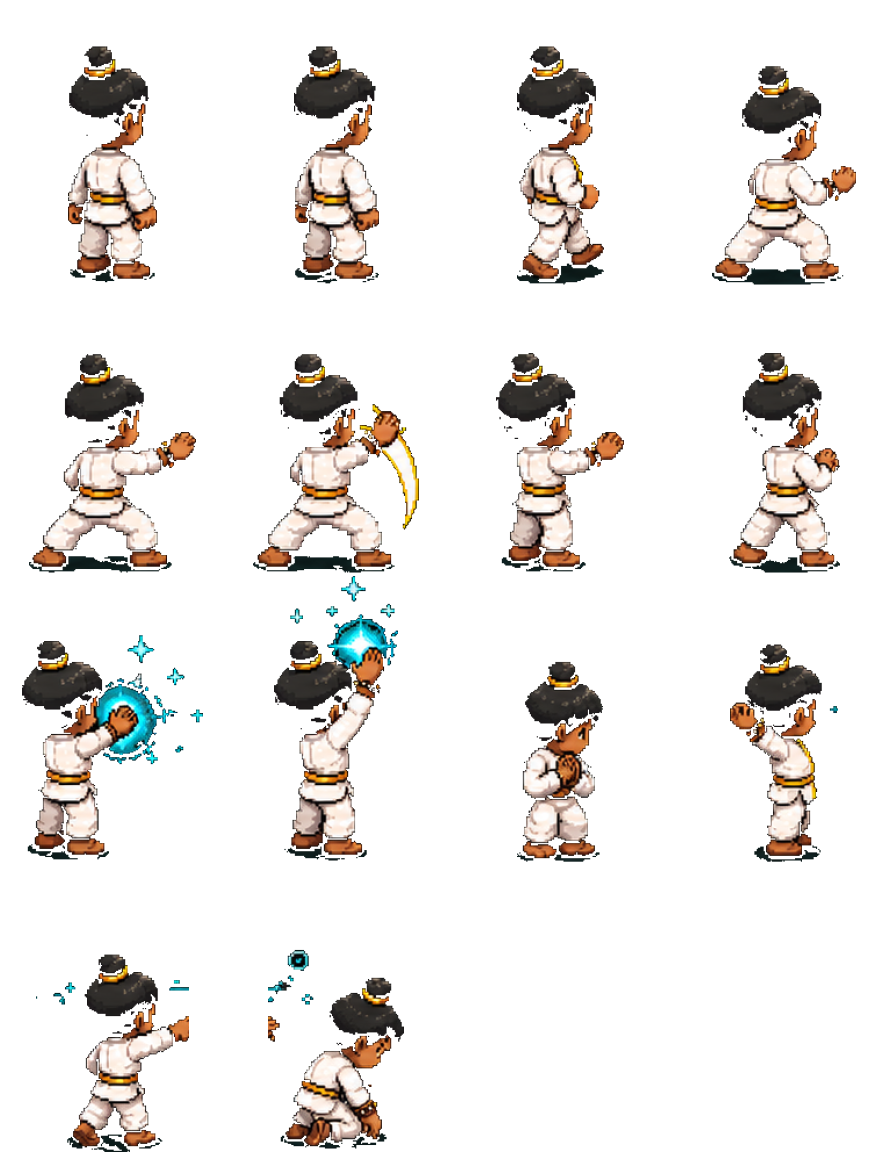
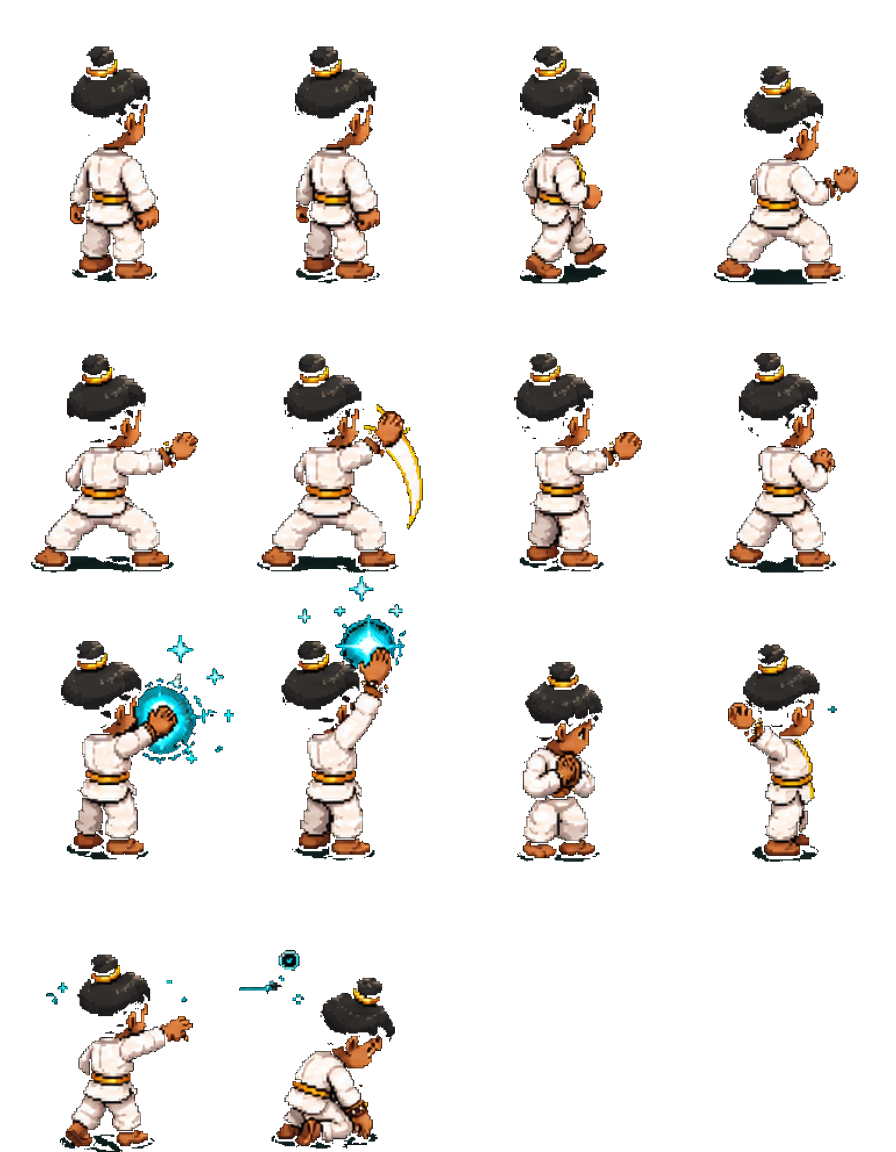
fix(resheet): assign floating FX to nearest figure by connected component
Combat FX (cast reticle, swing arc, sparkles) is drawn floating in the gap
between poses, so a vertical cut sliced through it and the halves landed in two
cells. Replace gap-cut+bbox with connected-component grouping: find each frame's
figure centre (tall-mass centroid), label every blob, and assign each blob WHOLE
to its nearest figure centre. Each cell renders from a mask of only its own
blobs (no neighbour bleed) and anchors on the figure centre so the character
stays put while FX extends to one side, clipped to the cell. Re-sheet all 5.

diff --git a/tools/resheet.ts b/tools/resheet.ts
@@ -191,9 +191,11 @@ function main(): void {
   const colTop = new Array<number>(src.w).fill(-1);
   const colBot = new Array<number>(src.w).fill(-1);
   const rowHas = new Array<number>(src.h).fill(0);
+  const mask = new Uint8Array(src.w * src.h); // 1 = content (reused for components)
   for (let y = 0; y < src.h; y++) {
     for (let x = 0; x < src.w; x++) {
       if (isContent(x, y)) {
+        mask[y * src.w + x] = 1;
         colHas[x]++; rowHas[y]++;
         if (colTop[x] < 0) colTop[x] = y;
         colBot[x] = y;
@@ -255,35 +257,67 @@ function main(): void {
     method = 'snap-to-gap';
   }
 
-  // per-frame horizontal content bbox + the global scale (one consistent size).
-  // A frame may catch a thin sliver of a neighbour when wide FX (a swung pan, a
-  // cast arc) crosses the cut. So within each band we build occupied runs,
-  // bridge a figure's own internal gaps (legs, arm→prop), then keep only the
-  // runs whose content is a real share of the dominant mass — dropping thin
-  // edge slivers that belong to the next figure.
-  const fx: Array<[number, number]> = [];
-  const bridge = Math.max(2, Math.round(pitch * 0.12)); // figure-internal gap tolerance
+  // --- group content into frames by connected component, not by hard cut ---
+  // FX (a cast reticle, swing arc, sparkles) is often drawn floating in the GAP
+  // between two poses, so a vertical cut slices straight through it and the
+  // halves land in two different cells. Instead: find each frame's figure centre
+  // (the tall-mass centroid in its band), label every connected blob, then assign
+  // each blob WHOLE to its nearest figure centre. A floating reticle goes
+  // entirely to one figure — never split — and each cell is later rendered from a
+  // mask of only its own blobs, so no neighbour can bleed in.
+  const figCenter: number[] = [];
   for (let i = 0; i < frames; i++) {
     const a = bounds[i];
     const b = bounds[i + 1] - 1;
-    const runs: Array<{ s: number; e: number; sum: number }> = [];
-    let s = -1;
-    for (let x = a; x <= b; x++) {
-      if (colHas[x] > 0) { if (s < 0) s = x; }
-      else if (s >= 0) { runs.push({ s, e: x - 1, sum: 0 }); s = -1; }
+    let sw = 0; let swx = 0;
+    for (let x = a; x <= b; x++) if (colOcc[x] > 0) { sw += colOcc[x]; swx += colOcc[x] * x; }
+    if (sw === 0) for (let x = a; x <= b; x++) if (colHas[x] > 0) { sw += colHas[x]; swx += colHas[x] * x; }
+    figCenter.push(sw > 0 ? swx / sw : (a + b) / 2);
+  }
+
+  // connected-component label (8-connectivity) over the content mask
+  const W = src.w;
+  const label = new Int32Array(W * src.h).fill(-1); // -1 unvisited, -2 empty, >=0 component id
+  const comp: Array<{ minX: number; maxX: number; area: number; sumX: number }> = [];
+  const stack: number[] = [];
+  for (let p0 = 0; p0 < mask.length; p0++) {
+    if (label[p0] !== -1) continue;
+    if (mask[p0] === 0) { label[p0] = -2; continue; }
+    const id = comp.length;
+    const c = { minX: p0 % W, maxX: p0 % W, area: 0, sumX: 0 };
+    label[p0] = id; stack.push(p0);
+    while (stack.length) {
+      const p = stack.pop() as number;
+      const px = p % W; const py = (p - px) / W;
+      c.area++; c.sumX += px;
+      if (px < c.minX) c.minX = px; if (px > c.maxX) c.maxX = px;
+      for (let dy = -1; dy <= 1; dy++) {
+        const ny = py + dy; if (ny < 0 || ny >= src.h) continue;
+        for (let dx = -1; dx <= 1; dx++) {
+          const nx = px + dx; if (nx < 0 || nx >= W) continue;
+          const ni = ny * W + nx; if (label[ni] !== -1) continue;
+          if (mask[ni] === 1) { label[ni] = id; stack.push(ni); } else label[ni] = -2;
+        }
+      }
     }
-    if (s >= 0) runs.push({ s, e: b, sum: 0 });
-    if (runs.length === 0) { fx.push([a, b]); continue; }
-    const merged: Array<{ s: number; e: number; sum: number }> = [runs[0]];
-    for (let r = 1; r < runs.length; r++) {
-      const last = merged[merged.length - 1];
-      if (runs[r].s - last.e - 1 <= bridge) last.e = runs[r].e;
-      else merged.push(runs[r]);
-    }
-    for (const m of merged) { let t = 0; for (let x = m.s; x <= m.e; x++) t += colHas[x]; m.sum = t; }
-    const dominant = Math.max(...merged.map((m) => m.sum));
-    const keep = merged.filter((m) => m.sum >= dominant * 0.2);
-    fx.push([Math.min(...keep.map((m) => m.s)), Math.max(...keep.map((m) => m.e))]);
+    comp.push(c);
+  }
+
+  // assign each blob to the nearest figure centre; frame bbox = union of its blobs
+  const frameComps: number[][] = Array.from({ length: frames }, () => []);
+  for (let ci = 0; ci < comp.length; ci++) {
+    const cx = comp[ci].sumX / comp[ci].area;
+    let bi = 0; let bd = Infinity;
+    for (let i = 0; i < frames; i++) { const d = Math.abs(cx - figCenter[i]); if (d < bd) { bd = d; bi = i; } }
+    frameComps[bi].push(ci);
+  }
+  const fx: Array<[number, number]> = [];
+  for (let i = 0; i < frames; i++) {
+    const cs = frameComps[i];
+    if (cs.length === 0) { fx.push([bounds[i], bounds[i + 1] - 1]); continue; }
+    let mn = Infinity; let mx = -Infinity;
+    for (const ci of cs) { if (comp[ci].minX < mn) mn = comp[ci].minX; if (comp[ci].maxX > mx) mx = comp[ci].maxX; }
+    fx.push([mn, mx]);
   }
   const maxFW = Math.max(...fx.map(([a, b]) => b - a + 1));
   // Default: fill cell HEIGHT (one consistent character size; wide poses may
@@ -302,10 +336,26 @@ function main(): void {
     const row = Math.floor(i / cols);
     const [a, b] = fx[i];
     const fw = b - a + 1;
+    // masked sub-image: keep ONLY this frame's own blobs so a neighbour figure
+    // overlapping the bbox rect can never bleed in.
+    const keep = new Set(frameComps[i]);
+    const sub = makeImg(fw, gH);
+    for (let y = 0; y < gH; y++) {
+      for (let xx = 0; xx < fw; xx++) {
+        const li = label[(gMinY + y) * W + (a + xx)];
+        if (li < 0 || !keep.has(li)) continue;
+        const so = ((gMinY + y) * W + (a + xx)) * 4;
+        const o = (y * fw + xx) * 4;
+        sub.data[o] = src.data[so]; sub.data[o + 1] = src.data[so + 1];
+        sub.data[o + 2] = src.data[so + 2]; sub.data[o + 3] = src.data[so + 3];
+      }
+    }
     const placedW = Math.max(1, Math.round(fw * s));
     const placedH = Math.max(1, Math.round(gH * s));
-    const cellImg = resample(src, a, gMinY, fw, gH, placedW, placedH);
-    const cx = col * cellW + Math.round((cellW - placedW) / 2);
+    const cellImg = resample(sub, 0, 0, fw, gH, placedW, placedH);
+    // anchor on the FIGURE centre (not the bbox) so the character stays put while
+    // FX extends to one side (clipped to the cell, never into the neighbour).
+    const cx = col * cellW + Math.round(cellW / 2 - (figCenter[i] - a) * s);
     const cy = row * cellH + (align === 'center' ? Math.round((cellH - placedH) / 2) : cellH - pad - placedH);
     blit(sheet, cellImg, cx, cy, { x0: col * cellW, y0: row * cellH, x1: col * cellW + cellW, y1: row * cellH + cellH });
   }
